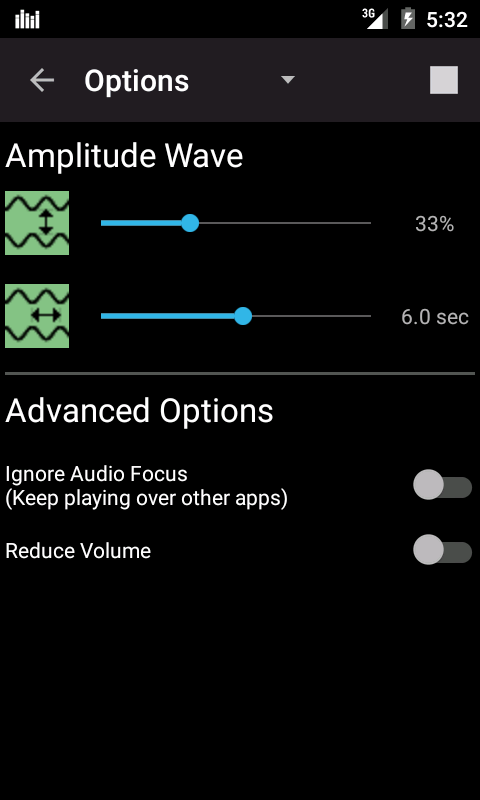
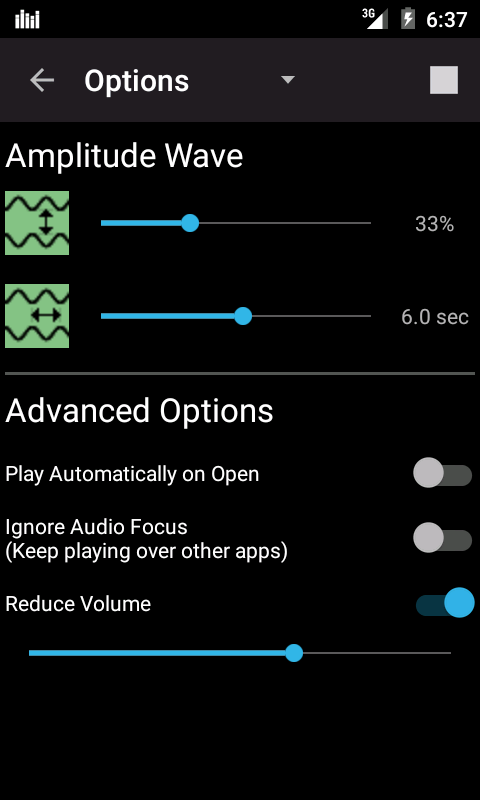
- Add AutoPlay feature (included in version 3.5)

diff --git a/src/net/pmarks/chromadoze/OptionsFragment.java b/src/net/pmarks/chromadoze/OptionsFragment.java
@@ -23,7 +23,6 @@ import android.support.v7.widget.SwitchCompat;
 import android.view.LayoutInflater;
 import android.view.View;
 import android.view.ViewGroup;
-import android.widget.CheckBox;
 import android.widget.CompoundButton;
 import android.widget.CompoundButton.OnCheckedChangeListener;
 import android.widget.SeekBar;
@@ -36,6 +35,7 @@ public class OptionsFragment extends Fragment implements OnSeekBarChangeListener
     private TextView mMinVolText;
     private SeekBar mPeriodSeek;
     private TextView mPeriodText;
+    private SwitchCompat mAutoPlayCheck;
     private SwitchCompat mIgnoreAudioFocusCheck;
     private SwitchCompat mVolumeLimitCheck;
     private SeekBar mVolumeLimitSeek;
@@ -49,6 +49,8 @@ public class OptionsFragment extends Fragment implements OnSeekBarChangeListener
         mMinVolText = (TextView) v.findViewById(R.id.MinVolText);
         mPeriodSeek = (SeekBar) v.findViewById(R.id.PeriodSeek);
         mPeriodText = (TextView) v.findViewById(R.id.PeriodText);
+        
+        mAutoPlayCheck = (SwitchCompat) v.findViewById(R.id.AutoPlayCheck);
 
         mIgnoreAudioFocusCheck = (SwitchCompat) v.findViewById(R.id.IgnoreAudioFocusCheck);
         // The AudioFocus API was added in Froyo.
@@ -78,6 +80,9 @@ public class OptionsFragment extends Fragment implements OnSeekBarChangeListener
         mPeriodSeek.setEnabled(ph.getMinVol() != 100);
         mPeriodSeek.setMax(PhononMutable.PERIOD_MAX);
         mPeriodSeek.setOnSeekBarChangeListener(this);
+
+        mAutoPlayCheck.setChecked(mUiState.getAutoPlay());
+        mAutoPlayCheck.setOnCheckedChangeListener(this);
         
         mIgnoreAudioFocusCheck.setChecked(mUiState.getIgnoreAudioFocus());
         mIgnoreAudioFocusCheck.setOnCheckedChangeListener(this);
@@ -119,7 +124,9 @@ public class OptionsFragment extends Fragment implements OnSeekBarChangeListener
     
     @Override
     public void onCheckedChanged(CompoundButton buttonView, boolean isChecked) {
-        if (buttonView == mIgnoreAudioFocusCheck) {
+        if (buttonView == mAutoPlayCheck) {
+            mUiState.setAutoPlay(isChecked, true);
+        } else if (buttonView == mIgnoreAudioFocusCheck) {
             mUiState.setIgnoreAudioFocus(isChecked);
         } else if (buttonView == mVolumeLimitCheck) {
             mUiState.setVolumeLimitEnabled(isChecked);

diff --git a/src/net/pmarks/chromadoze/UIState.java b/src/net/pmarks/chromadoze/UIState.java
@@ -41,6 +41,7 @@ public class UIState {
     }
 
     private boolean mDirty = false;
+    private boolean mAutoPlay;
     private boolean mIgnoreAudioFocus;
     private boolean mVolumeLimitEnabled;
     private int mVolumeLimit;
@@ -48,6 +49,7 @@ public class UIState {
 
     public void saveState(SharedPreferences.Editor pref) {
         pref.putBoolean("locked", mLocked);
+        pref.putBoolean("autoPlay", mAutoPlay);
         pref.putBoolean("ignoreAudioFocus", mIgnoreAudioFocus);
         pref.putInt("volumeLimit", getVolumeLimit());
         pref.putString("phononS", mScratchPhonon.toJSON());
@@ -60,6 +62,7 @@ public class UIState {
 
     public void loadState(SharedPreferences pref) {
         mLocked = pref.getBoolean("locked", false);
+        setAutoPlay(pref.getBoolean("autoPlay", false), false);
         setIgnoreAudioFocus(pref.getBoolean("ignoreAudioFocus", false));
         setVolumeLimit(pref.getInt("volumeLimit", MAX_VOLUME));
         setVolumeLimitEnabled(mVolumeLimit != MAX_VOLUME);
@@ -182,6 +185,22 @@ public class UIState {
     public interface LockListener {
         enum LockEvent { TOGGLE, BUSY };
         void onLockStateChange(LockEvent e);
+    }
+
+    public void setAutoPlay(boolean enabled, boolean fromUser) {
+        mAutoPlay = enabled;
+        if (fromUser) {
+            // Demonstrate AutoPlay by acting like the Play/Stop button.
+            if (enabled) {
+                sendToService();
+            } else {
+                stopService();
+            }
+        }
+    }
+    
+    public boolean getAutoPlay() {
+        return mAutoPlay;
     }
     
     public void setIgnoreAudioFocus(boolean enabled) {

diff --git a/src/net/pmarks/chromadoze/ChromaDoze.java b/src/net/pmarks/chromadoze/ChromaDoze.java
@@ -17,7 +17,6 @@
 
 package net.pmarks.chromadoze;
 
-import android.content.Context;
 import android.content.SharedPreferences;
 import android.graphics.Bitmap;
 import android.graphics.PorterDuff.Mode;
@@ -30,10 +29,8 @@ import android.support.v4.app.FragmentTransaction;
 import android.support.v4.view.MenuItemCompat;
 import android.support.v7.app.ActionBar;
 import android.support.v7.app.ActionBarActivity;
-import android.support.v7.widget.PopupMenu;
 import android.support.v7.widget.Toolbar;
 import android.util.TypedValue;
-import android.view.ContextThemeWrapper;
 import android.view.Menu;
 import android.view.MenuItem;
 import android.view.View;
@@ -104,6 +101,10 @@ public class ChromaDoze extends ActionBarActivity implements
         // Start receiving progress events.
         NoiseService.addPercentListener(this);
         mUiState.addLockListener(this);
+        
+        if (mUiState.getAutoPlay()) {
+            mUiState.sendToService();
+        }
     }
 
     @Override
